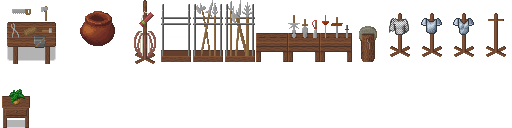
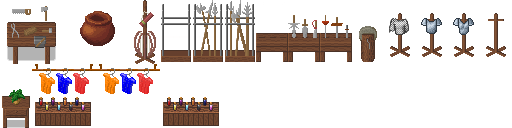
Fixed Nurses Headband Made Bandana dyeable Moved Npc Accents to be used with tiles Fixed map to adjust for new fringe collisions

Changed region(s): [[0.0625, 0.5, 0.3125, 1.0], [0.3125, 0.75, 0.4375, 1.0]]

diff --git a/tilesets/evil-obelisk.tsx b/tilesets/evil-obelisk.tsx
@@ -1,0 +1,43 @@
+<?xml version="1.0" encoding="UTF-8"?>
+<tileset name="evil-obelisk" tilewidth="64" tileheight="128">
+ <image source="../graphics/tiles/evil-obelisk.png" width="448" height="128"/>
+ <tile id="0">
+  <animation>
+   <frame tileid="1" duration="25"/>
+   <frame tileid="2" duration="25"/>
+   <frame tileid="3" duration="25"/>
+   <frame tileid="4" duration="25"/>
+   <frame tileid="5" duration="25"/>
+   <frame tileid="6" duration="25"/>
+   <frame tileid="5" duration="25"/>
+   <frame tileid="4" duration="25"/>
+   <frame tileid="3" duration="25"/>
+   <frame tileid="2" duration="25"/>
+   <frame tileid="1" duration="25"/>
+  </animation>
+  <properties>
+   <property name="animation-delay0" value="25"/>
+   <property name="animation-delay1" value="25"/>
+   <property name="animation-delay2" value="25"/>
+   <property name="animation-delay3" value="25"/>
+   <property name="animation-delay4" value="25"/>
+   <property name="animation-delay5" value="25"/>
+   <property name="animation-delay6" value="25"/>
+   <property name="animation-delay7" value="25"/>
+   <property name="animation-delay8" value="25"/>
+   <property name="animation-delay9" value="25"/>
+   <property name="animation-delay10" value="25"/>
+   <property name="animation-frame0" value="1"/>
+   <property name="animation-frame1" value="2"/>
+   <property name="animation-frame2" value="3"/>
+   <property name="animation-frame3" value="4"/>
+   <property name="animation-frame4" value="5"/>
+   <property name="animation-frame5" value="6"/>
+   <property name="animation-frame6" value="5"/>
+   <property name="animation-frame7" value="4"/>
+   <property name="animation-frame8" value="3"/>
+   <property name="animation-frame9" value="2"/>
+   <property name="animation-frame10" value="1"/>
+  </properties>
+ </tile>
+</tileset>

diff --git a/tilesets/woodenpump.tsx b/tilesets/woodenpump.tsx
@@ -1,0 +1,40 @@
+<?xml version="1.0" encoding="UTF-8"?>
+<tileset name="woodenpump" tilewidth="32" tileheight="96">
+ <image source="../graphics/tiles/woodenpump.png" width="352" height="96"/>
+ <tile id="0">
+  <animation>
+   <frame tileid="1" duration="130"/>
+   <frame tileid="2" duration="130"/>
+   <frame tileid="3" duration="130"/>
+   <frame tileid="4" duration="130"/>
+   <frame tileid="5" duration="130"/>
+   <frame tileid="6" duration="130"/>
+   <frame tileid="7" duration="130"/>
+   <frame tileid="8" duration="130"/>
+   <frame tileid="9" duration="130"/>
+   <frame tileid="10" duration="130"/>
+  </animation>
+  <properties>
+   <property name="animation-delay0" value="13"/>
+   <property name="animation-delay1" value="20"/>
+   <property name="animation-delay2" value="13"/>
+   <property name="animation-delay3" value="13"/>
+   <property name="animation-delay4" value="13"/>
+   <property name="animation-delay5" value="13"/>
+   <property name="animation-delay6" value="13"/>
+   <property name="animation-delay7" value="13"/>
+   <property name="animation-delay8" value="13"/>
+   <property name="animation-delay9" value="13"/>
+   <property name="animation-frame0" value="1"/>
+   <property name="animation-frame1" value="2"/>
+   <property name="animation-frame2" value="3"/>
+   <property name="animation-frame3" value="4"/>
+   <property name="animation-frame4" value="5"/>
+   <property name="animation-frame5" value="6"/>
+   <property name="animation-frame6" value="7"/>
+   <property name="animation-frame7" value="8"/>
+   <property name="animation-frame8" value="9"/>
+   <property name="animation-frame9" value="10"/>
+  </properties>
+ </tile>
+</tileset>
